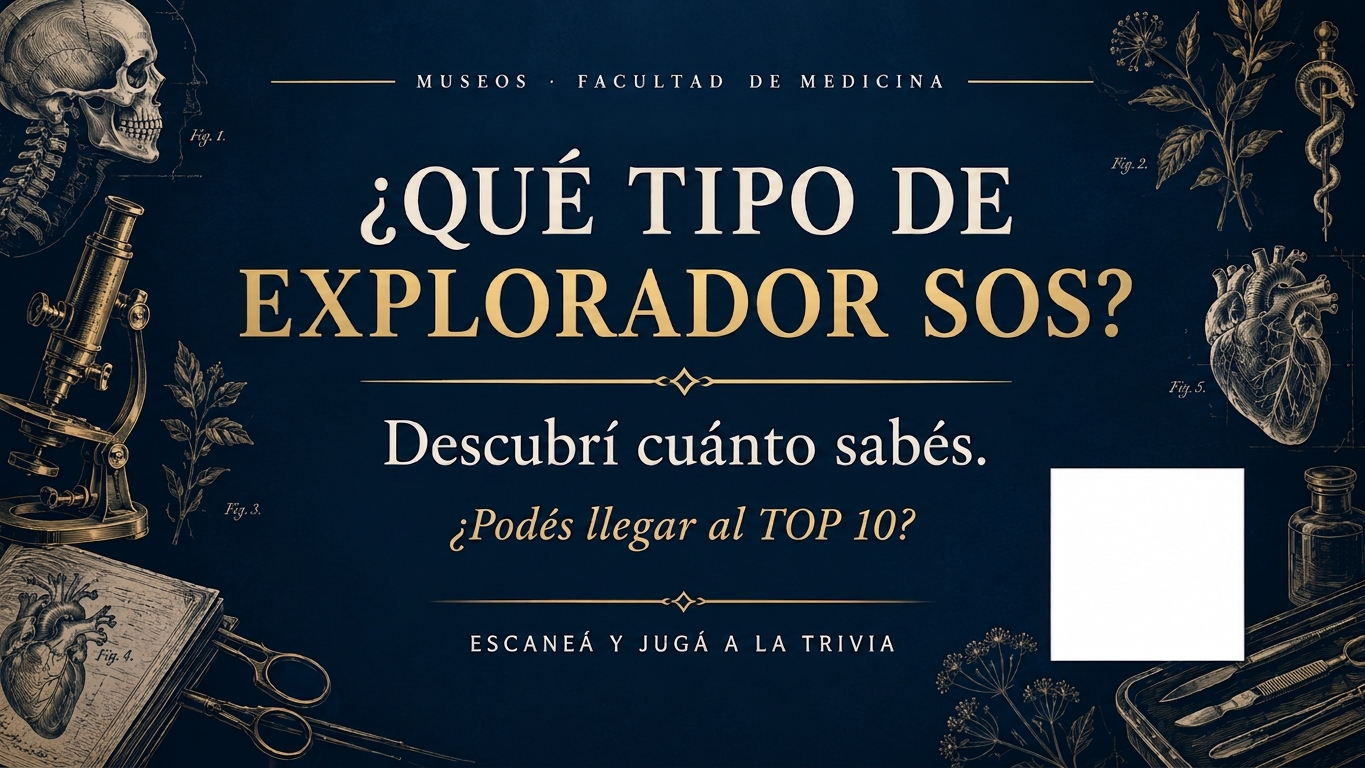
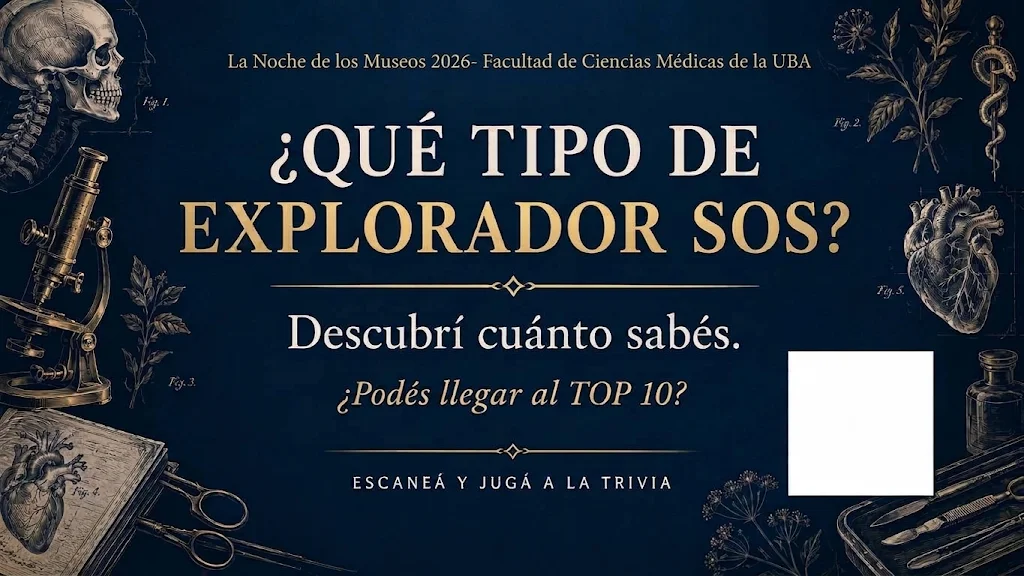
imagenes

diff --git a/museos.html b/museos.html
@@ -461,7 +461,9 @@
     <section class="screen" id="play" aria-label="Invitación a jugar">
       <div class="invite">
         <div>
-          <div class="eyebrow">Museos · Facultad de Medicina</div>
+          <div class="eyebrow">
+            La Noche de los Museos 2026 · Facultad de Ciencias Médicas de la UBA
+          </div>
           <h1>¿Podés llegar<br />al <span>TOP 10?</span></h1>
           <p class="subtitle">
             Poné a prueba tus conocimientos y descubrí cuánto sabés sobre la
